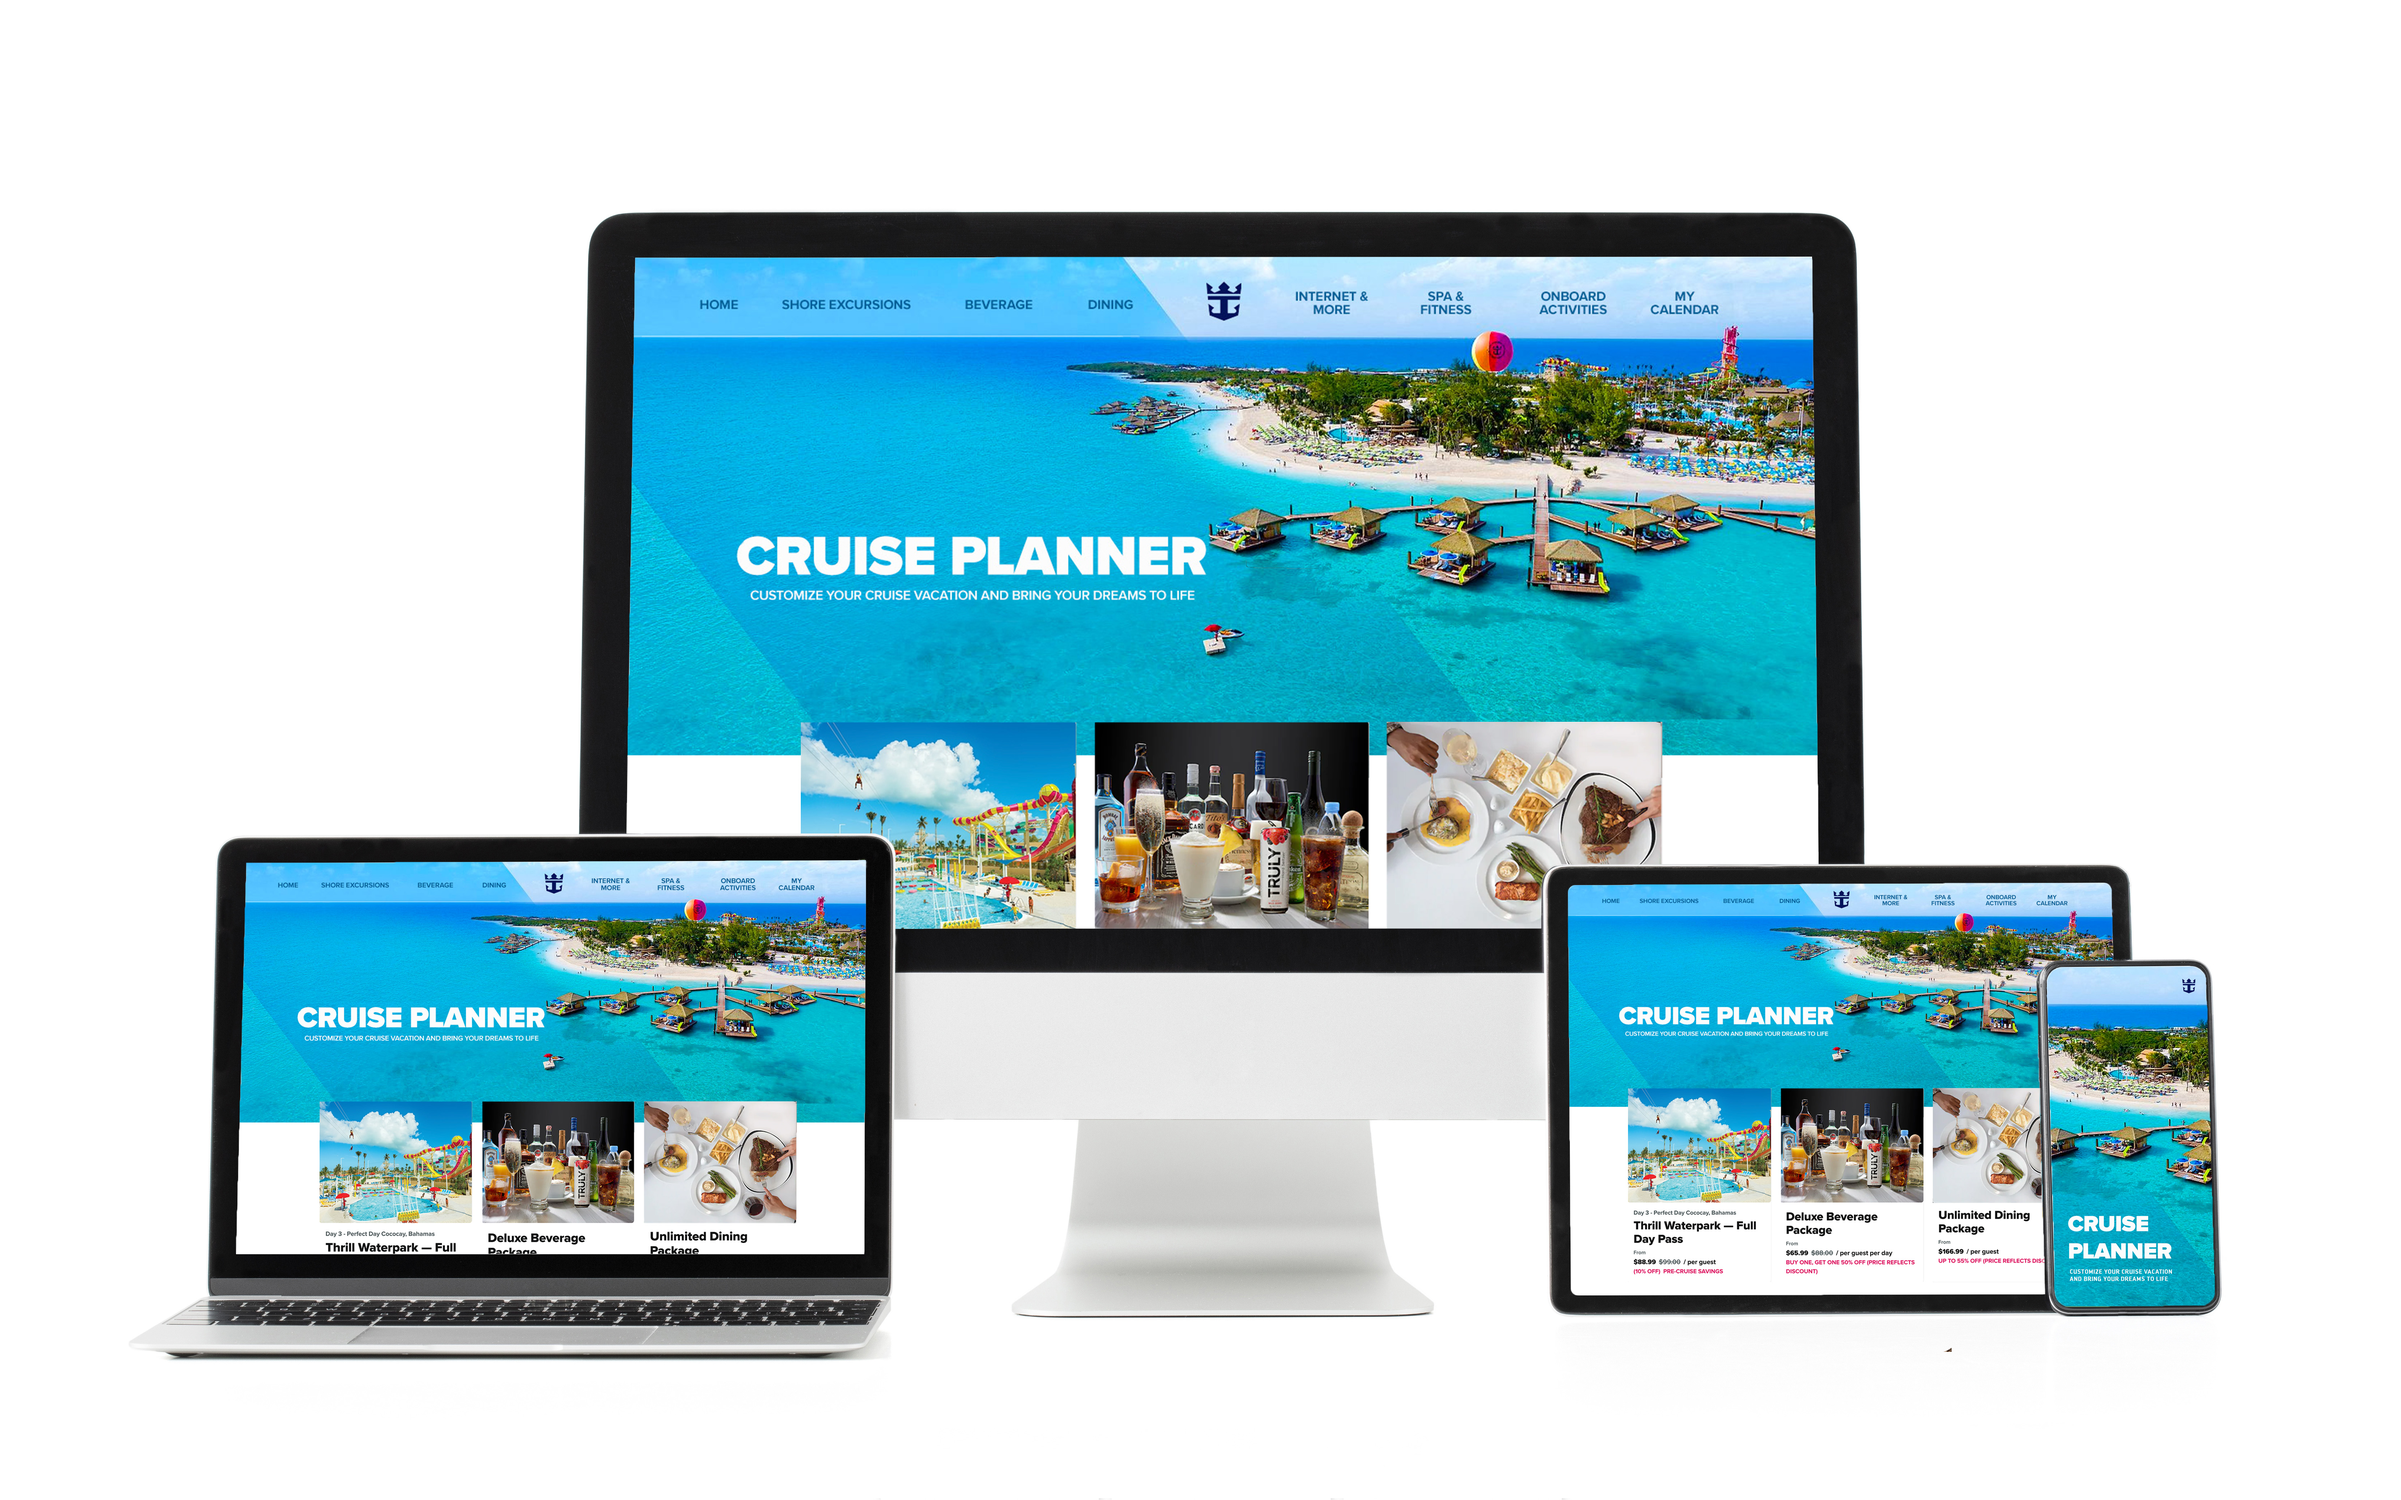
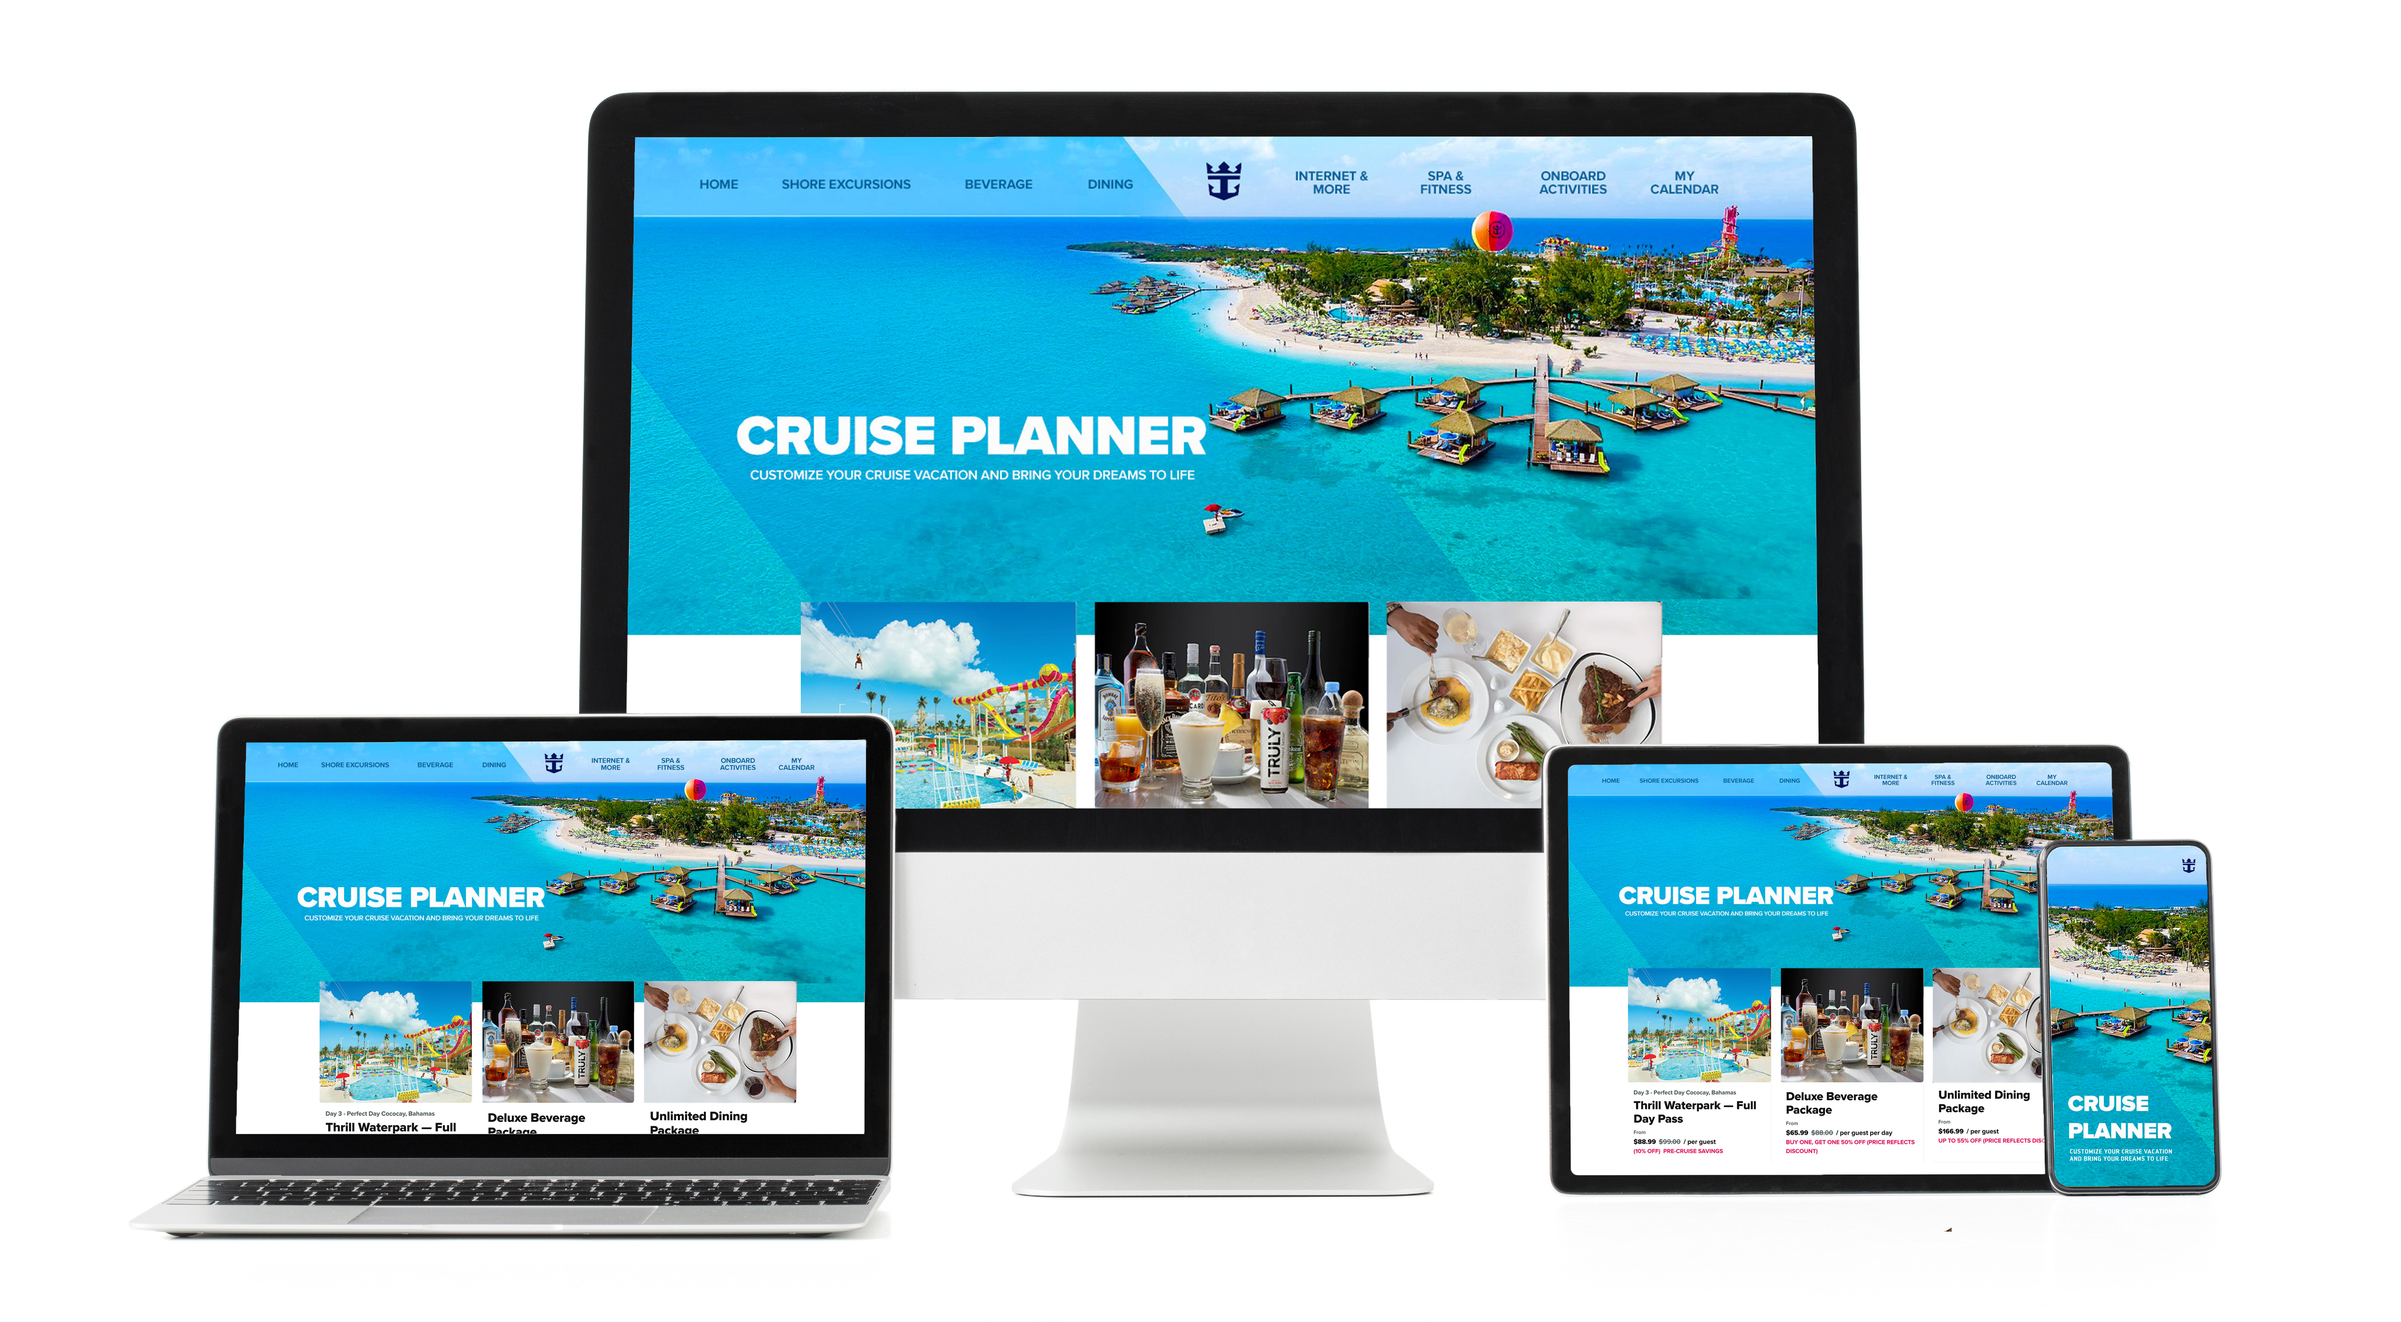
rcl email

diff --git a/rcl.html b/rcl.html
@@ -66,9 +66,9 @@
 
     </div>
   </div>
-<div class="rcl-top-half">
+<!-- <div class="rcl-top-half"> -->
   <div class="rcl-container">
-    <div class="row" id="rcl-row">
+    <div class="" id="rcl-row">
       <div class="col">
           <h1 class="rcl-title" >
             EMAIL AND WEB</h1>
@@ -108,8 +108,8 @@
   
            <!-- NEW CONTENT -->
 
-<div class="rcl-layout">
-  <div class="new">
+<div class="rcl-layout-1">
+  <div class="rcl-mockup-1">
     <!-- <img class="rcl-mockup1" src="assets/images/rcl-screen-1.png"> -->
     <img class="rcl-all" src="assets/images/RCI-web-2022.jpg">
   </div> 
@@ -188,29 +188,55 @@
 <!-- <div class="line-cta">
   <a href="" target="_self" class="rcl-button">EXPLORE PERFECT DAY</a></div> -->
 
-  <div class="rcl-deals">
+  <!-- <div class="rcl-deals"> -->
    
 <div class="rcl-layout">
   <div class="mockup-box">
     <!-- <img class="rcl-mockup1" src="assets/images/rcl-screen-1.png"> -->
     <img class="rcl-mockup" src="assets/images/rcl_mockup.jpg">
   </div>
-  <div class="rcl-row">
-    <div class="cross-sell-content">
-      <img class="cross-sell" src="assets/images/RCI_AN_CrossSellBanner-01.png">
-      <img class="cross-sell" src="assets/images/RCI_AN_CrossSellBanner-02.png">
-      <img class="cross-sell" src="assets/images/RCI_AN_CrossSellBanner-03.png">
-    </div>
-  </div>
-</div>
+  
+<!-- </div> -->
+
+
     
   </div>
+
+  <!-- <div class="cross-sell-content">
+    <div class="cross-sell-div">
+      <img class="cross-sell" src="assets/images/RCI_AN_CrossSellBanner-01.png">
+    </div>
+    <div class="cross-sell-div">
+      <img class="cross-sell" src="assets/images/RCI_AN_CrossSellBanner-02.png">
+    </div>
+    <div class="cross-sell-div">
+      <img class="cross-sell" src="assets/images/RCI_AN_CrossSellBanner-03.png">
+    </div>
+    </div>
+  </div> -->
+
+  <div class="cross-sell-content">
+
+      <img class="cross-sell" src="assets/images/RCI_AN_CrossSellBanner-01.png">
+ 
+
+      <img class="cross-sell" src="assets/images/RCI_AN_CrossSellBanner-02.png">
+   
+    <!-- <div class="cross-sell-div"> -->
+      <img class="cross-sell" src="assets/images/RCI_AN_CrossSellBanner-03.png">
+    
+ 
+  </div>
+
+
 
   <div class="sectionDestination__header email-header">
     <!-- <h2 class="heading1 navy-text">Cultivating Creativity</h2>  -->
     <h2 class="heading1 navy-text">E-mail Marketing</h2> 
     <h4 class="subHeading navy-text">Design, Production &amp; Deployment</h4> 
   </div>
+
+  
  
 <div class="email-container">
   <img class="email-new" src="assets/images/email-05.jpg">

diff --git a/assets/css/style.css b/assets/css/style.css
@@ -136,11 +136,9 @@ html {
   left: -5%;
   z-index: 3;
 }
-.rcl-layout {
-  margin-top:50px;
-  /* height: 450px; */
-}
+
 .rcl-container {
+  width:100%;
   display: block;
   margin: 35px auto 0px auto;
 }
@@ -336,6 +334,7 @@ html {
   font-style: normal;
   font-size: 45px;
 }
+
 
 #portfolio-list {
   padding: 0px;
@@ -2848,10 +2847,20 @@ margin: 10px auto;
     text-align: center;
     
   }
+  .rcl-layout-1 {
+
+  }
+  .rcl-mockup-1 {
+    display: block;
+    margin: auto;
+  }
   .rcl-layout {
     width:85%;
     display: block;
     margin: 0 auto;
+    margin-top:50px;
+    clear:both;
+    /* height: 450px; */
   }
   .sectionDestination__header {
     margin: 0 auto 40px auto;
@@ -2925,8 +2934,9 @@ margin: 10px auto;
     margin:0 auto;
   }
   .rcl-deals {
-    padding-top:25px;
+  
     clear: both;
+    /* padding-top:15px; */
   }
   .rcl-iphone{
     width:85%;
@@ -2975,13 +2985,19 @@ margin: 10px auto;
     
   }
   .cross-sell-content{
-    display: block;
-    margin: 35px auto;
+    clear:both;
+    width:100%;
+    margin-top:25px;
+    
     /* width: 85%; */
   }
-  .cross-sell {
+  .cross-sell-div {
     width:100%;
-    float:left;
+  }
+  .cross-sell {
+    width:95%;
+    display:block;
+  margin: 0 auto;
     padding:10px 5px 0px 5px;
   }
   .return-to-port {

diff --git a/assets/css/new-media.css b/assets/css/new-media.css
@@ -55,6 +55,8 @@
     }
     .cross-sell {
         width:33.33%;
+        float:left;
+        margin-top: 25px;
     }
     .rcl-iphone { 
         width:80%;
@@ -229,8 +231,11 @@ width: 33.333%;
 }
 .cross-sell-content {
     width: 95%;
-    padding-left:75px;
+   display:block;
+   margin: 0px auto;  
+
 }
+
 /* .rcl-iphone {
     width: 75%;
    
@@ -551,11 +556,13 @@ ul#portfolio-filter {
 .cruise-planner-div { 
     float:left;
     width: 50%;
+    padding: 0px 20px;
 }
 
 .other-web {
     float:left;
     width:50%;
+    padding: 0px 20px;
 }
 }
 /* copied from media.css */
@@ -591,6 +598,9 @@ ul#portfolio-filter {
 }
 .rcl-booked {
 
+}
+.cross-sell-content{
+ width:85%;
 }
 }
 /* Large devices (desktops, 992px and up) */
